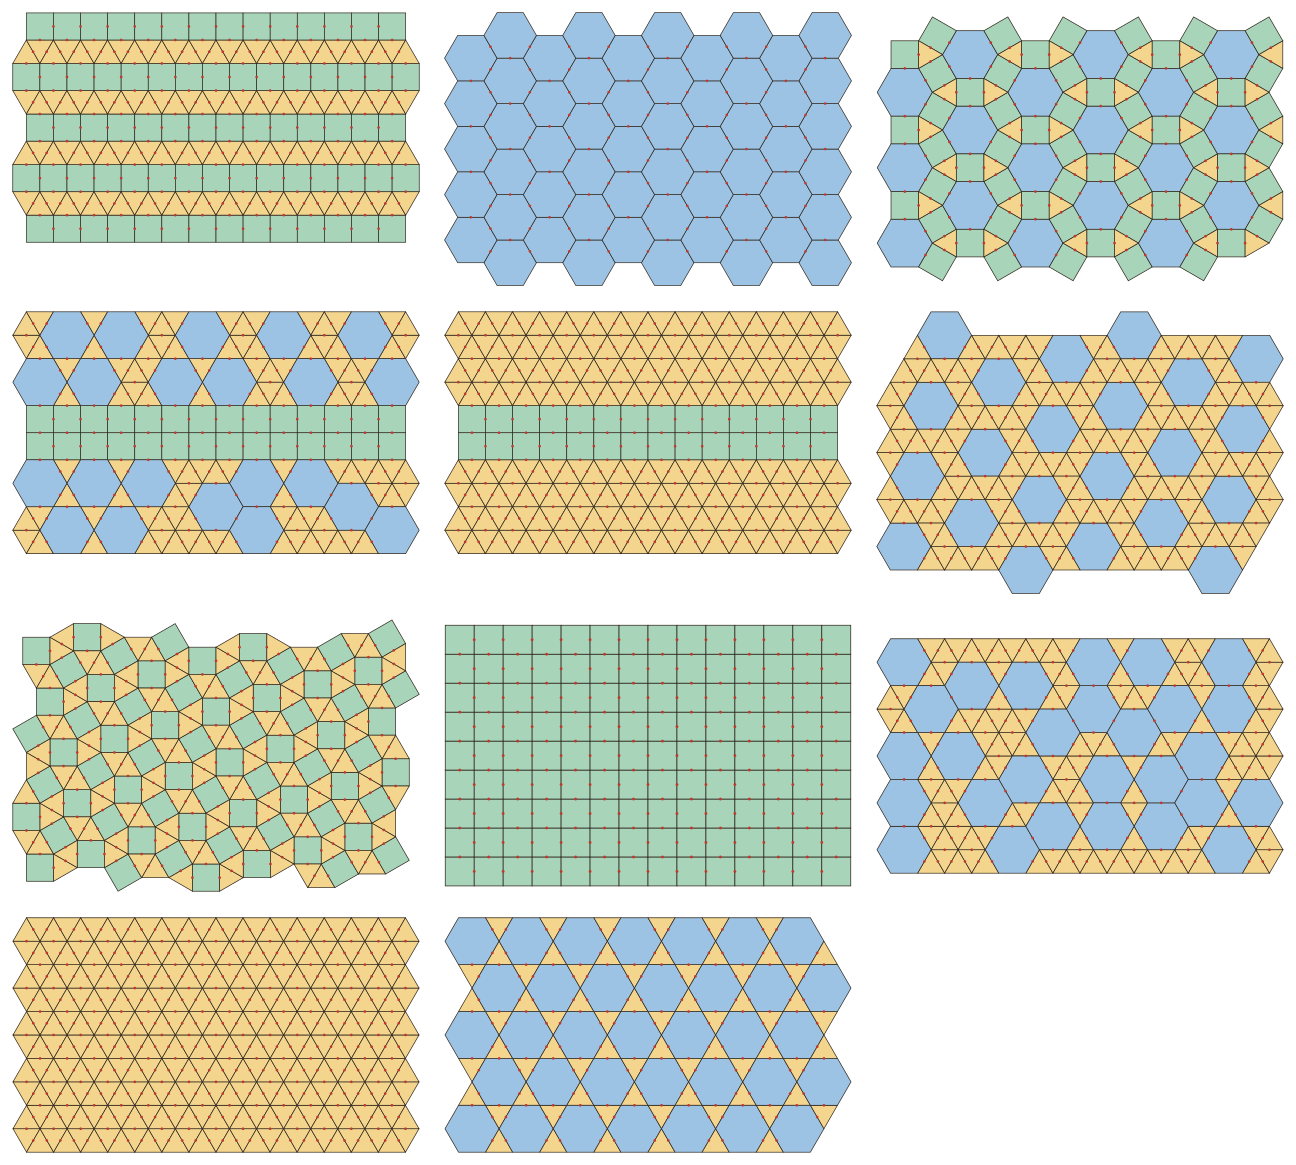
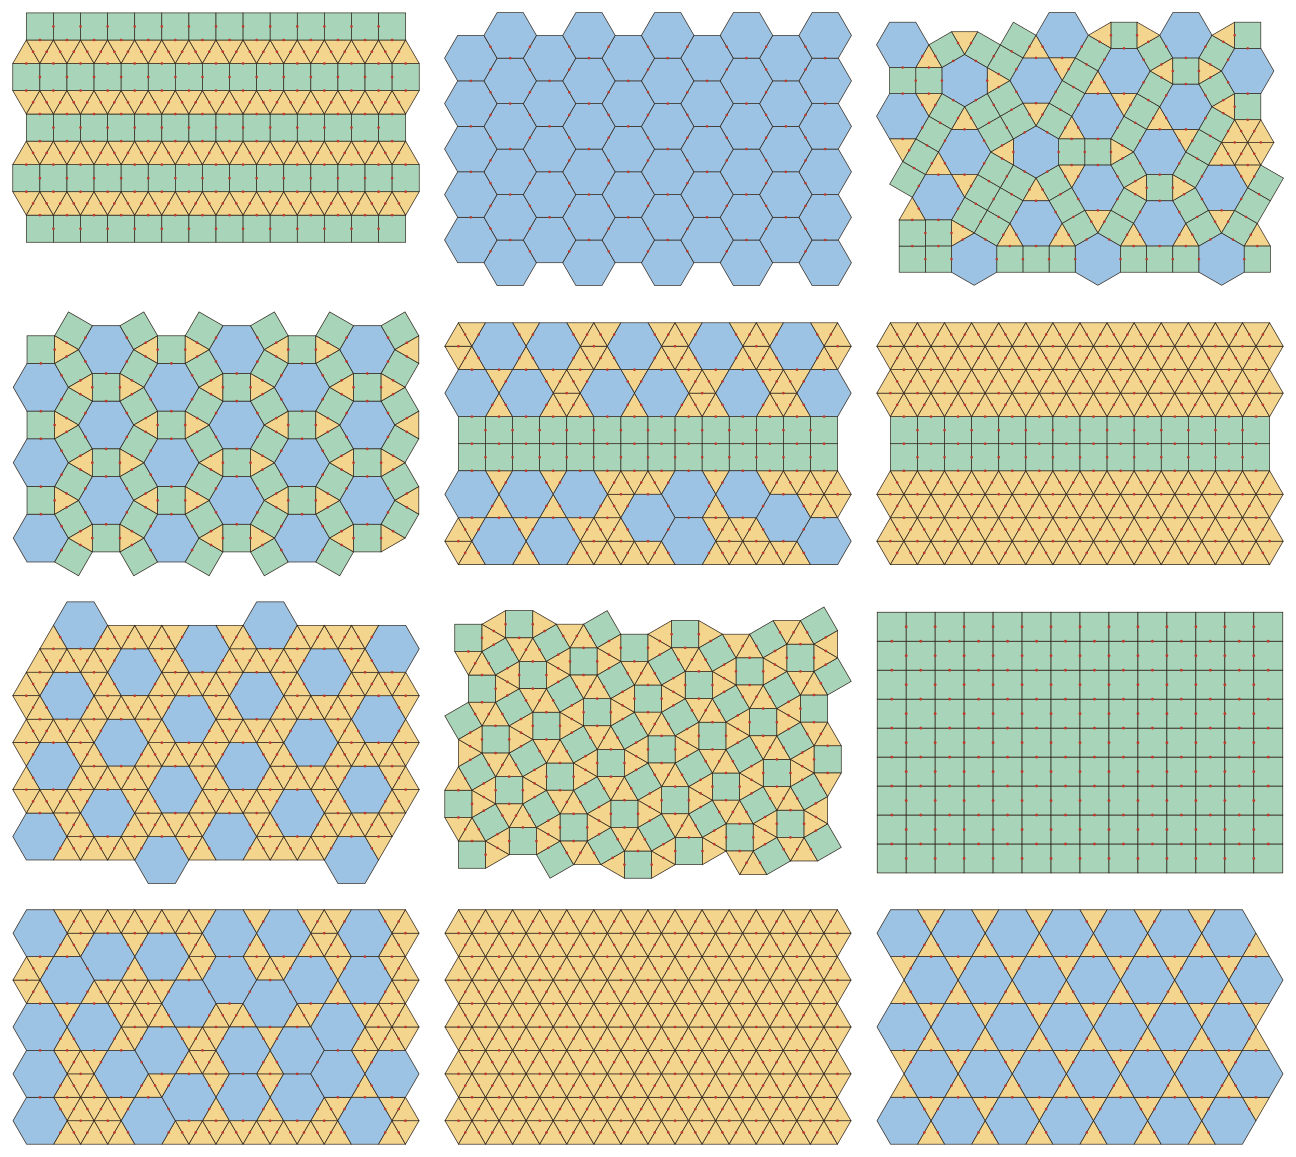
Draw random in the tilings sheet and mark the grown mix done in the plan
Claude-Session: https://claude.ai/code/session_013uTbHgNvwMhGF9NgtTbRy4

diff --git a/PLAN.md b/PLAN.md
@@ -65,7 +65,7 @@ edges. ✅ means it is in `lib/src/tiling/catalogue.rs` and passes the tests now
 | Random triangle–hexagon mix | – | triangle + hexagon | ✅ `triangle-hexagon` |
 | Random rows of squares and triangles, with hexagon merges | – | all three | ✅ `row-mix`, `row-mix-hexagon` |
 | Square–triangle quasicrystal, with hexagon merges | 12-fold | all three | phase 4, still to do (§2.1; inflation by 2+√3, still exact) |
-| Grown mix with a chosen ratio | – | all three | phase 8 (§2.1) |
+| Grown mix with a chosen ratio | – | all three | ✅ `random` (`grow.rs`, `--mix T,S,H`) |
 | 2-uniform tilings (the 20 using 3/4/6) | e.g. [3⁶; 3².4.3.4] | mixed | phase 8 |
 | Rhombus / house-pentagon tilings | – | equilateral, 30° angles | phase 8 |
 
